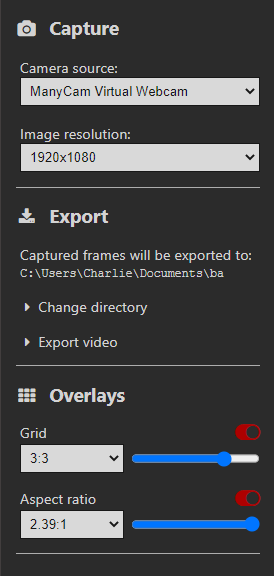
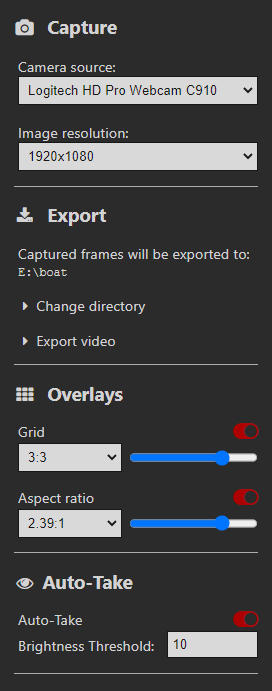
Add new Auto-Take feature. This feature is used to synchronize taking images with a DSLR whose video output is connected via a capture card. The connected DSLR must have "Image Review" or equivalent setting enabled. If Auto-Take is enabled, it will wait for a black frame (indicating the DSLR is taki

diff --git a/src/js/animator/core/AutoTake.js b/src/js/animator/core/AutoTake.js
@@ -1,0 +1,150 @@
+(function() {
+  "use strict";
+  // Imports
+  const ToggleButton = require("../ui/ToggleButton");
+  const Features = require("./Features");
+
+  // HTML elements
+  const preview = document.querySelector("#preview");
+  const hiddenPreview = document.querySelector("#hidden-preview");
+  const autoTakeList = document.querySelector("#auto-take-list");
+
+  var autoTakeDaemon = null;
+
+  /**
+   * Class for automatically taking picture after detecting the connected DSLR video stream has taken a photo.
+   * This is useful when DSLRs have their video output connected to an HDMI capture card, such as Cam Link.
+   * While DSLRs are capturing a photo, their video stream becomes black. After the photo is taken, it is
+   * previewed on the video output for around 1-2 seconds before switching back to the live view. This transition
+   * can be detected, so the high-quality image preview can be captured off the video stream.
+   */
+  class AutoTake {
+
+    /**
+     * Initializes the AutoTake sidebar menu, and class variables.
+     */
+    static initialise() {
+      AutoTake.autoTakeDaemon = null;  // Timer Interval for detecting brightness change
+      AutoTake.enabled = true; // Is AutoTake is enabled?
+      AutoTake.isDark = false; // Is the current video frame dark (brightness below threshold)?
+      AutoTake.brightnessThreshold = 1.2;  // Brightness Threshold
+
+      // Add a list item to settings dialog
+      let autoTakeItem = document.createElement("li");
+      autoTakeList.appendChild(autoTakeItem);
+
+      // Item title
+      let itemTitle = document.createElement("div");
+      let itemTitleText = document.createElement("div");
+
+      let itemToggleBtn = document.createElement("div"); // Item toggle button
+
+      let itemSettingsContainer = document.createElement("div");
+      let brightnessThresholdInput = document.createElement("input"); // Brightness Threshold input
+      let brightnessThresholdText = document.createElement("div");
+
+      // Set title
+      autoTakeItem.appendChild(itemTitle);
+      itemTitle.classList.add("flex");
+      itemTitle.appendChild(itemTitleText);
+      itemTitleText.innerText = "Auto-Take";
+
+      // Add toggle button
+      itemTitle.appendChild(itemToggleBtn);
+      itemToggleBtn.setAttribute("style", "text-align: right");
+      itemToggleBtn.classList.add("auto-take-toggle-btn");
+      new ToggleButton(itemToggleBtn, function() {
+        if (AutoTake.enabled) {
+          clearInterval(AutoTake.autoTakeDaemon);
+          AutoTake.autoTakeDaemon = null;
+          AutoTake.enabled = false;
+        }
+        else {
+          // Start daemon to check webcam brightness 30 times per second. TODO: Make the interval time configurable
+          AutoTake.autoTakeDaemon = setInterval(AutoTake.checkBrightnessThreshold, 1000 / 30); // 30 FPS
+          AutoTake.enabled = true;
+        }
+        itemSettingsContainer.classList.toggle("hidden");
+      });
+
+      // Create item settings container to hold configurable inputs
+      autoTakeItem.appendChild(itemSettingsContainer);
+      itemSettingsContainer.classList.add("flex");
+      itemSettingsContainer.setAttribute("style", "align-items: center");
+
+      // Create brightness threshold text label and input
+      itemSettingsContainer.appendChild(brightnessThresholdText);
+      brightnessThresholdText.classList.add("flex");
+      brightnessThresholdText.setAttribute("style", "flex-basis: 80%");
+      brightnessThresholdText.innerText = "Brightness Threshold:";
+      itemSettingsContainer.appendChild(brightnessThresholdInput);
+      brightnessThresholdInput.style.margin = "0 0 0 0.5em";
+      brightnessThresholdInput.setAttribute("type", "number");
+      brightnessThresholdInput.setAttribute("min", "0");
+      brightnessThresholdInput.setAttribute("max", "255");
+      brightnessThresholdInput.setAttribute("step", "0.1");
+      brightnessThresholdInput.setAttribute("value", 1.2);
+
+      // Listen to the input being updated
+      brightnessThresholdInput.addEventListener("input", function(e) {
+        let val = e.target.value;
+        // Limit value to range [0-255]
+        if (val > 255) {
+          val == 255;
+        }
+        else if (val < 0) {
+          val = 0;
+        }
+        AutoTake.brightnessThreshold = val;
+      });
+    }
+
+    static checkBrightnessThreshold() {
+      var w = preview.videoWidth;
+      var h = preview.videoHeight;
+
+      if (w == 0 || h == 0) {
+        return;  // Return if video stream not setup
+      }
+
+      hiddenPreview.width = w;
+      hiddenPreview.height = h;
+      var context = hiddenPreview.getContext('2d');
+
+      context.drawImage(preview, 0, 0, w, h);
+
+      var imgData = context.getImageData(0, 0, w, h)
+      var data = imgData.data;
+      var r, g, b, a, avg;
+      var colorSum = 0;
+      var totalPixels = 0;
+
+      for (var x = 0, len = data.length; x < len; x += 4) {
+        r = data[x];
+        g = data[x+1];
+        b = data[x+2];
+        a = data[x+3];
+
+        if (a > 0) {
+          avg = (r + b + g) / 3;
+          colorSum += avg;
+          totalPixels += 1;
+        }
+      }
+
+      var brightness = colorSum / totalPixels;
+
+      if (brightness > AutoTake.brightnessThreshold) {
+        if (AutoTake.isDark) {  // Take picture if live image transitions from dark to light.
+          Features.takePicture();
+        }
+        AutoTake.isDark = false;
+      }
+      else {
+        AutoTake.isDark = true;
+      }
+    }
+  }
+
+  module.exports = AutoTake;
+})();

diff --git a/src/animator.html b/src/animator.html
@@ -36,6 +36,8 @@
         <video id="preview" class="visible-capture" autoplay>Video stream not available.</video>
         <!--The actual playback window -->
         <canvas id="playback" class="visible-playback"></canvas>
+        <!-- Hidden preview canvas used for reading pixels of live image -->
+        <canvas id="hidden-preview" class="hidden"></canvas>
       </div>
 
       <!--Playback controls-->
@@ -168,6 +170,16 @@
             <i class="fa fa-th fa-fw"></i> Overlays</h2>
         </div>
         <ul id="overlay-list"></ul>
+      </div>
+
+      <!--AutoTake-->
+      <div class="sidebar-item" id="auto-take-header">
+        <div class="sidebar-header">
+          <h2>
+            <i class="fa fa-eye fa-fw"></i>Auto-Take</h2>
+        </div>
+        <ul id="auto-take-list">
+        </ul>
       </div>
     </aside>
   </main>

diff --git a/src/js/animator/index.js b/src/js/animator/index.js
@@ -8,6 +8,7 @@
   const PreviewOverlay = require("./js/animator/core/PreviewOverlay");
   const Project = require("./js/animator/projects/Project");
   const Shortcuts = require("./js/animator/core/Shortcuts");
+  const AutoTake = require("./js/animator/core/AutoTake");
 
   // UI imports
   const CaptureOptions = require("./js/animator/ui/CaptureOptions");
@@ -37,6 +38,7 @@
     ExportVideo.setListeners();
     FrameReelRow.setListeners();
     PreviewOverlay.initialise();
+    AutoTake.initialise();
     global.projectInst.setListeners();
     global.projectInst.checkExportFrameDir();
 

diff --git a/docs/interface/main-window.md b/docs/interface/main-window.md
@@ -130,3 +130,10 @@ This displays a grid over the preview area in **capture mode**. The grid is comm
 #### Aspect ratio mask
 
 This displays a mask over the preview area with the selected aspect ratio.
+### Auto-Take
+
+This feature is used to synchronize taking images with a DSLR whose video output is connected via a capture card. The connected DSLR must have "Image Review" or equivalent setting enabled. If Auto-Take is enabled, it will wait for a black frame (indicating the DSLR is taking a photo), and then capture the next visible frame, which corresponds to the actual photo taken by the DSLR. The quality of this image is often significantly better than the live preview, and corresponds exactly to the full-quality image saved on the DSLR's memory card.
+
+#### Brightness Threshold
+
+This value determines the brightness threshold (0 - 255) between a black frame (DSLR is taking a photo) and visible frame. Note that sufficiently dark scenes are indistinguishable from the black frames a DSLR outputs while taking a photo, so pictures may be erroneously captured as the brightness level floats around the threshold value.
